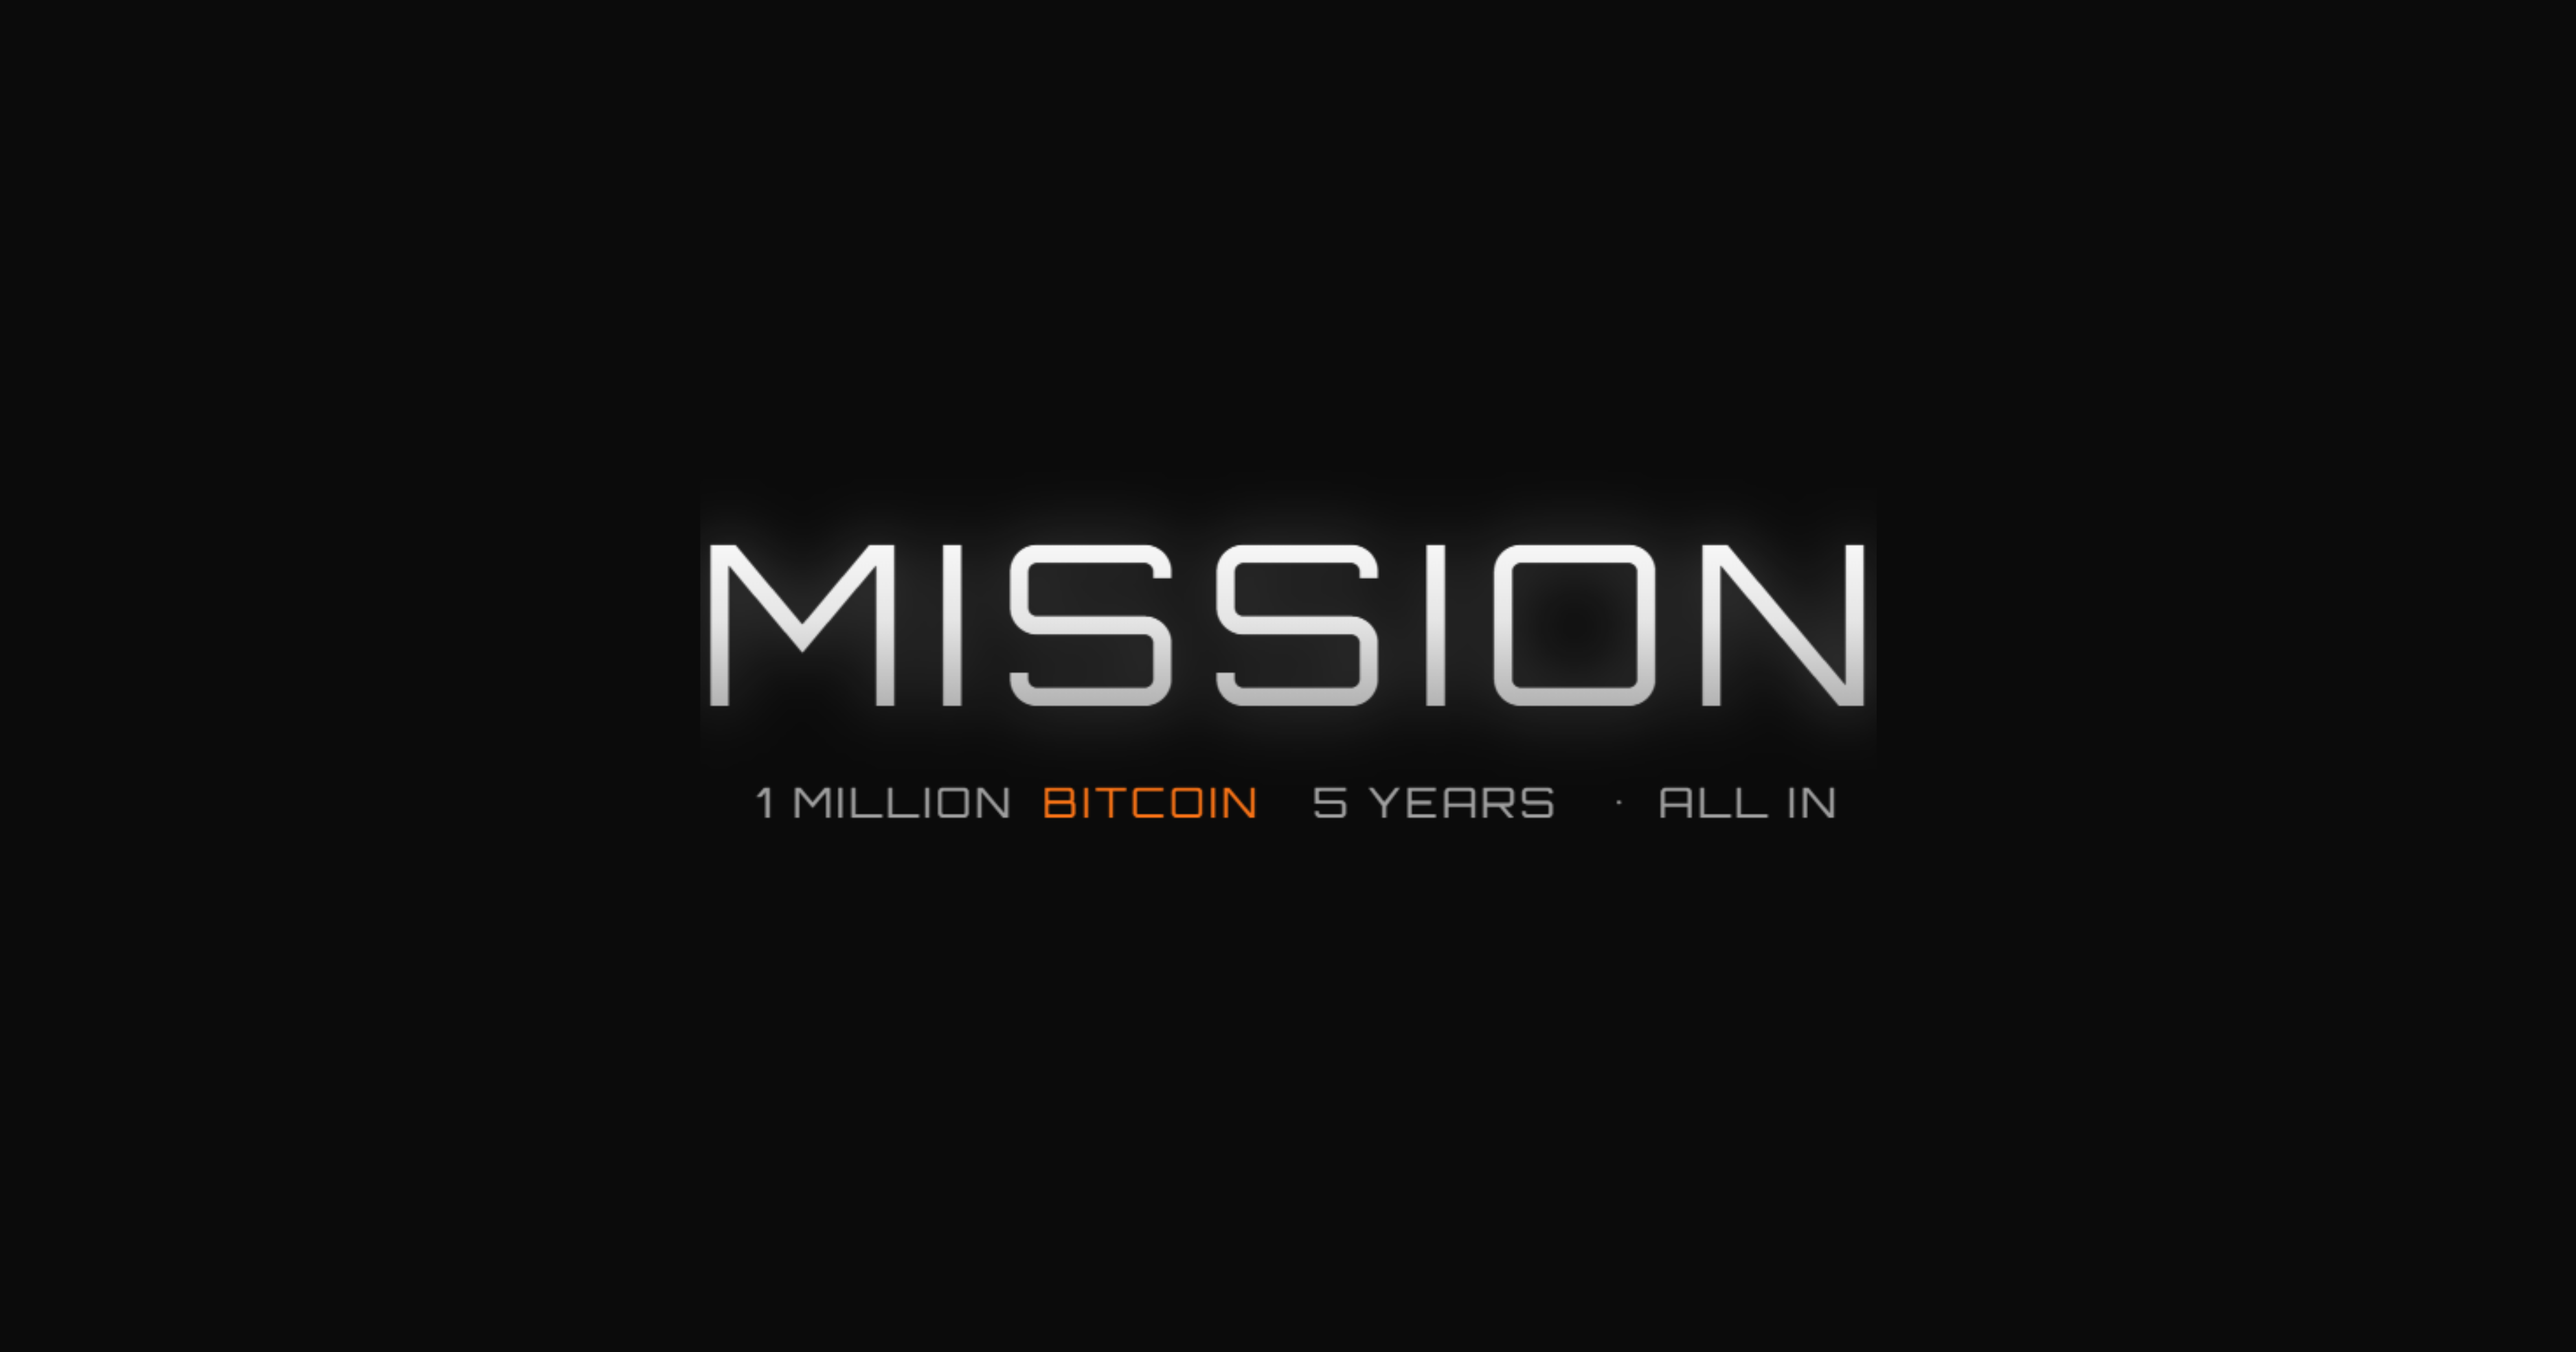
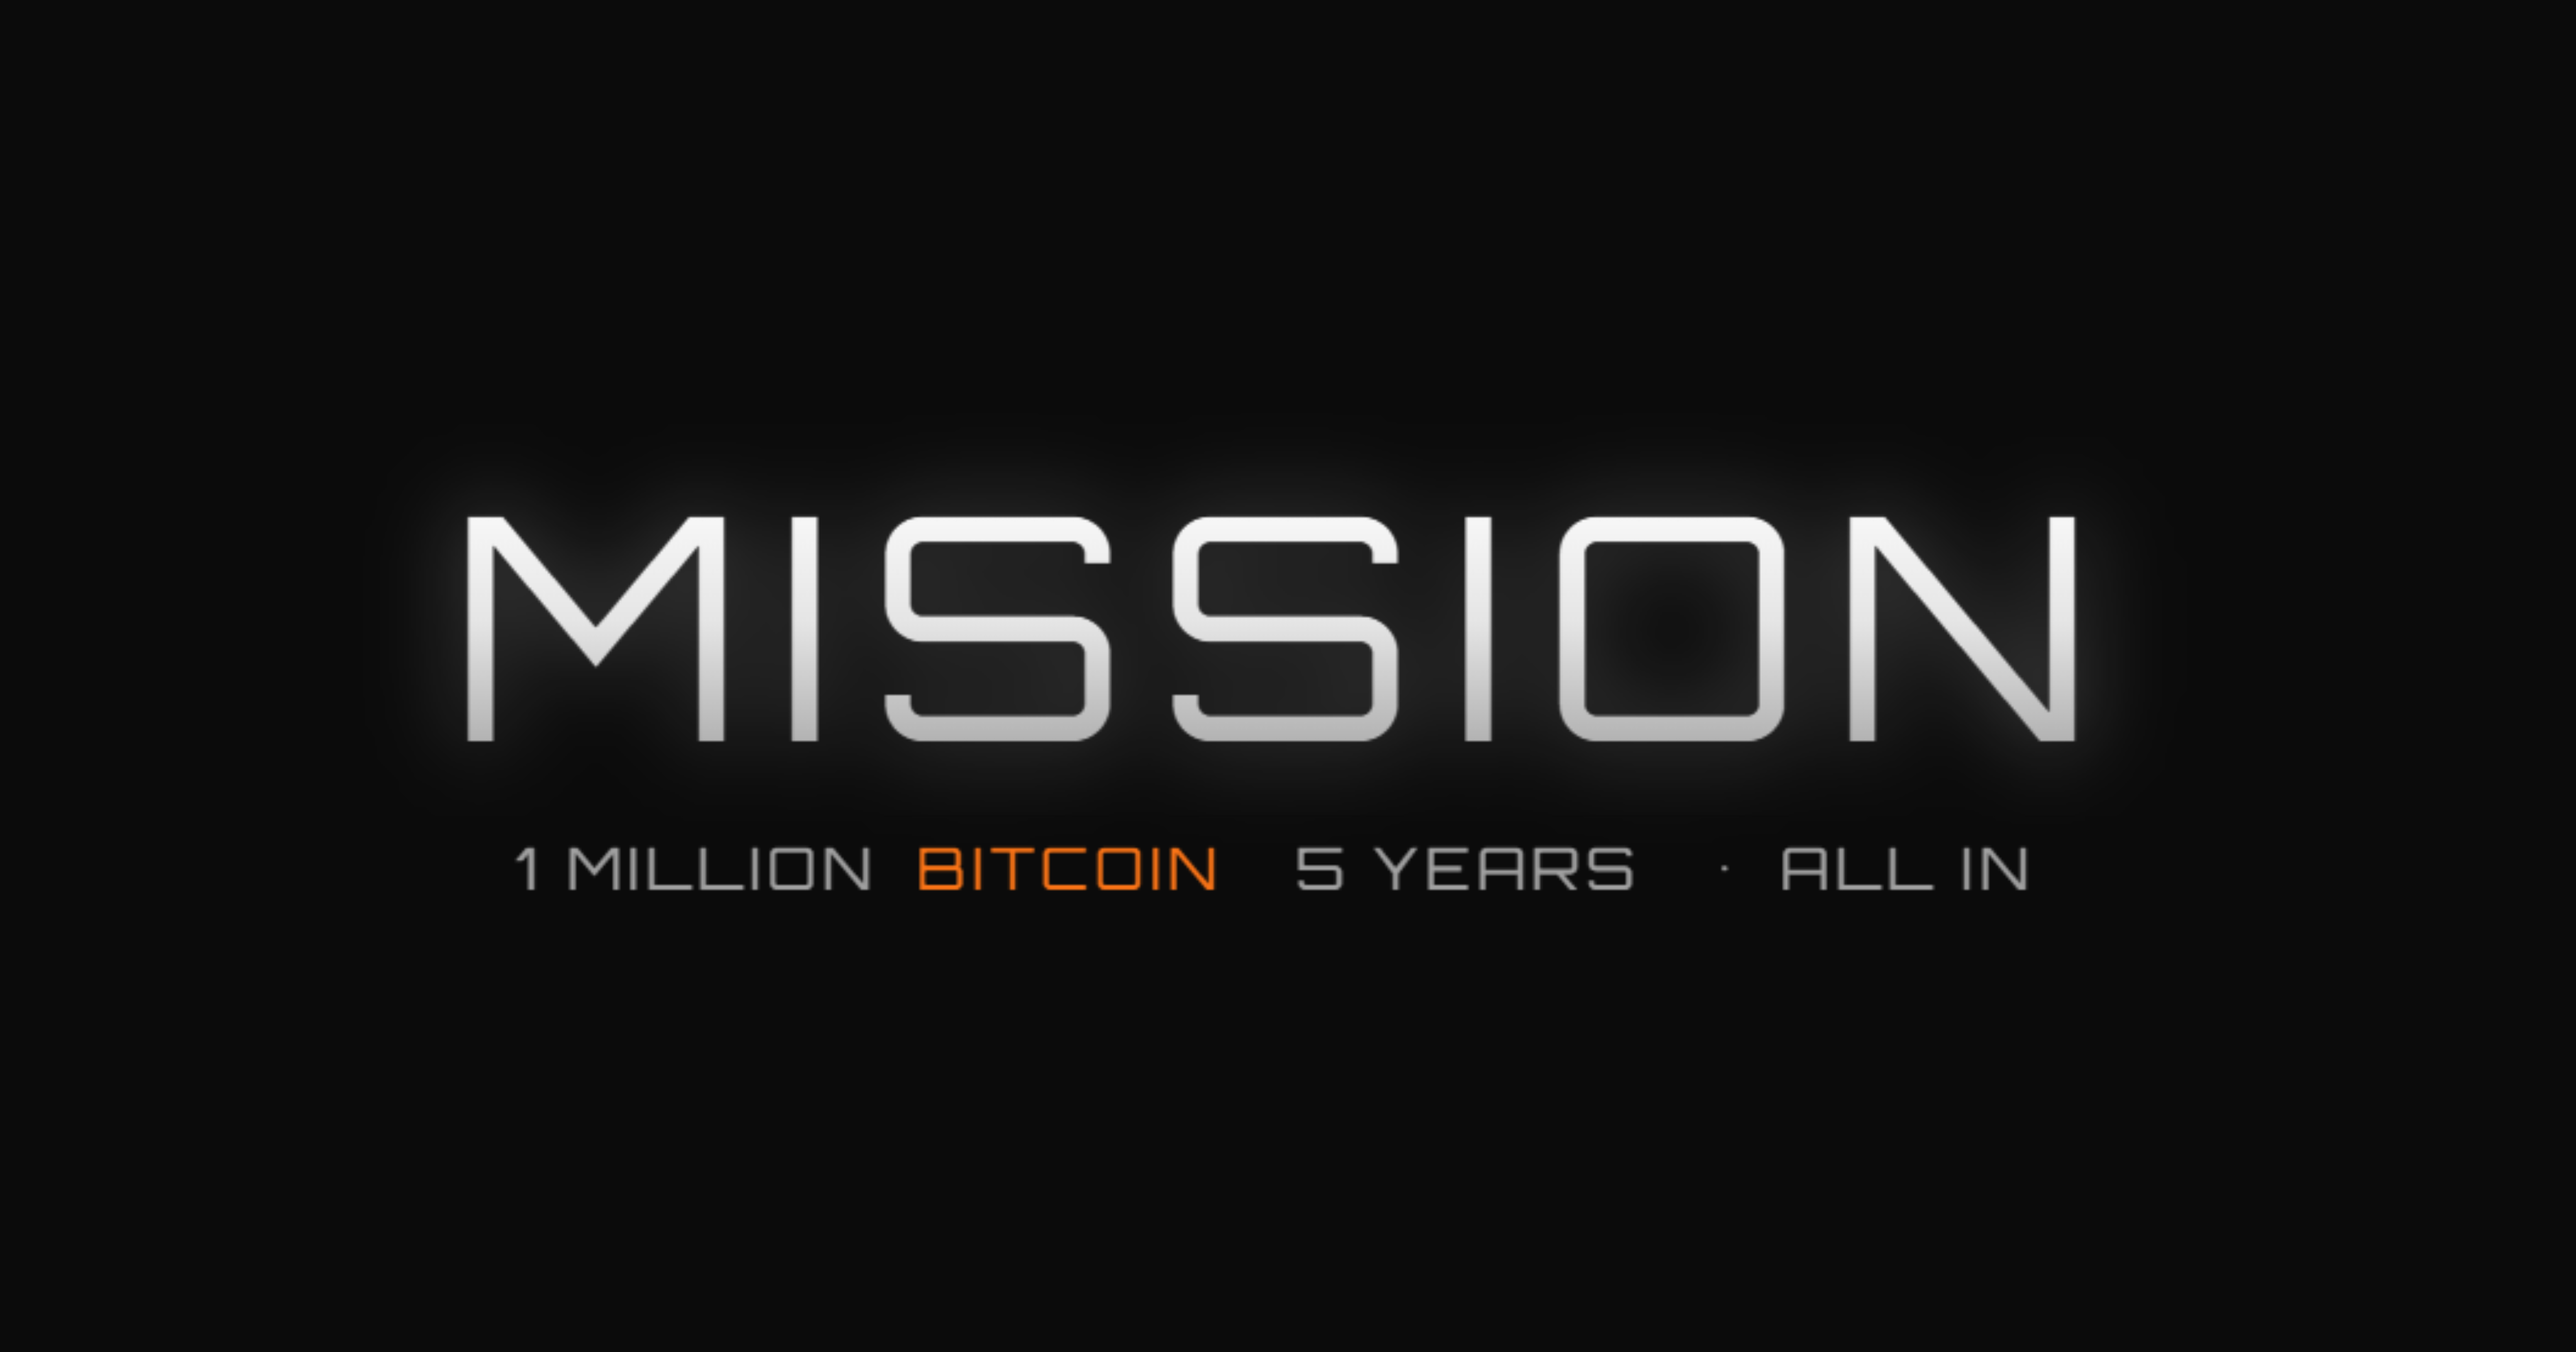
Update Open Graph with new branding and mission image
- Changed title from 'MISSION' to 'BitcoinWala'
- Updated description to focus on India's 1st public Bitcoin treasury
- Emphasized mission: 1M BTC by 2030 goal
- Added India flag emoji and nation's largest Bitcoin reserve messaging
- Replaced mission image with updated version (lpo2.png)
- Updated all meta tags (og:title, og:description, twitter:title, twitter:description)
- Updated og:image:alt text to match new branding

diff --git a/index.html b/index.html
@@ -7,24 +7,24 @@
     <meta name="apple-mobile-web-app-capable" content="yes" />
     <meta name="apple-mobile-web-app-status-bar-style" content="black-translucent" />
 
-    <title>MISSION</title>
-    <meta name="description" content="India trusted gold; now Bitcoin. Scarce, decentralized, verifiable. BitcoinWala builds on Bitcoin's scarcity, not fiat, focusing on clarity." />
+    <title>BitcoinWala</title>
+    <meta name="description" content="India's 1st public Bitcoin treasury. Mission: 1M BTC by 2030. Building the 🇮🇳 nation's largest Bitcoin reserve." />
     
     <link rel="canonical" href="https://bitcoinwala.ai/" />
 
     <meta property="og:type" content="website" />
     <meta property="og:site_name" content="BitcoinWala" />
-    <meta property="og:title" content="MISSION" />
-    <meta property="og:description" content="India trusted gold; now Bitcoin. Scarce, decentralized, verifiable. BitcoinWala builds on Bitcoin's scarcity, not fiat, focusing on clarity." />
+    <meta property="og:title" content="BitcoinWala" />
+    <meta property="og:description" content="India's 1st public Bitcoin treasury. Mission: 1M BTC by 2030. Building the 🇮🇳 nation's largest Bitcoin reserve." />
     <meta property="og:url" content="https://bitcoinwala.ai/" />
     <meta property="og:image" content="https://bitcoinwala.ai/og/mission-1200x630.png" />
     <meta property="og:image:width" content="1200" />
     <meta property="og:image:height" content="630" />
-    <meta property="og:image:alt" content="MISSION — India trusted gold; now Bitcoin. Scarce, decentralized, verifiable." />
+    <meta property="og:image:alt" content="BitcoinWala — India's 1st public Bitcoin treasury. Mission: 1M BTC by 2030." />
 
     <meta name="twitter:card" content="summary_large_image" />
-    <meta name="twitter:title" content="MISSION" />
-    <meta name="twitter:description" content="India trusted gold; now Bitcoin. Scarce, decentralized, verifiable. BitcoinWala builds on Bitcoin's scarcity, not fiat, focusing on clarity." />
+    <meta name="twitter:title" content="BitcoinWala" />
+    <meta name="twitter:description" content="India's 1st public Bitcoin treasury. Mission: 1M BTC by 2030. Building the 🇮🇳 nation's largest Bitcoin reserve." />
     <meta name="twitter:image" content="https://bitcoinwala.ai/og/mission-1200x630.png" />
 
     <link rel="icon" type="image/svg+xml" href="/vite.svg" />
